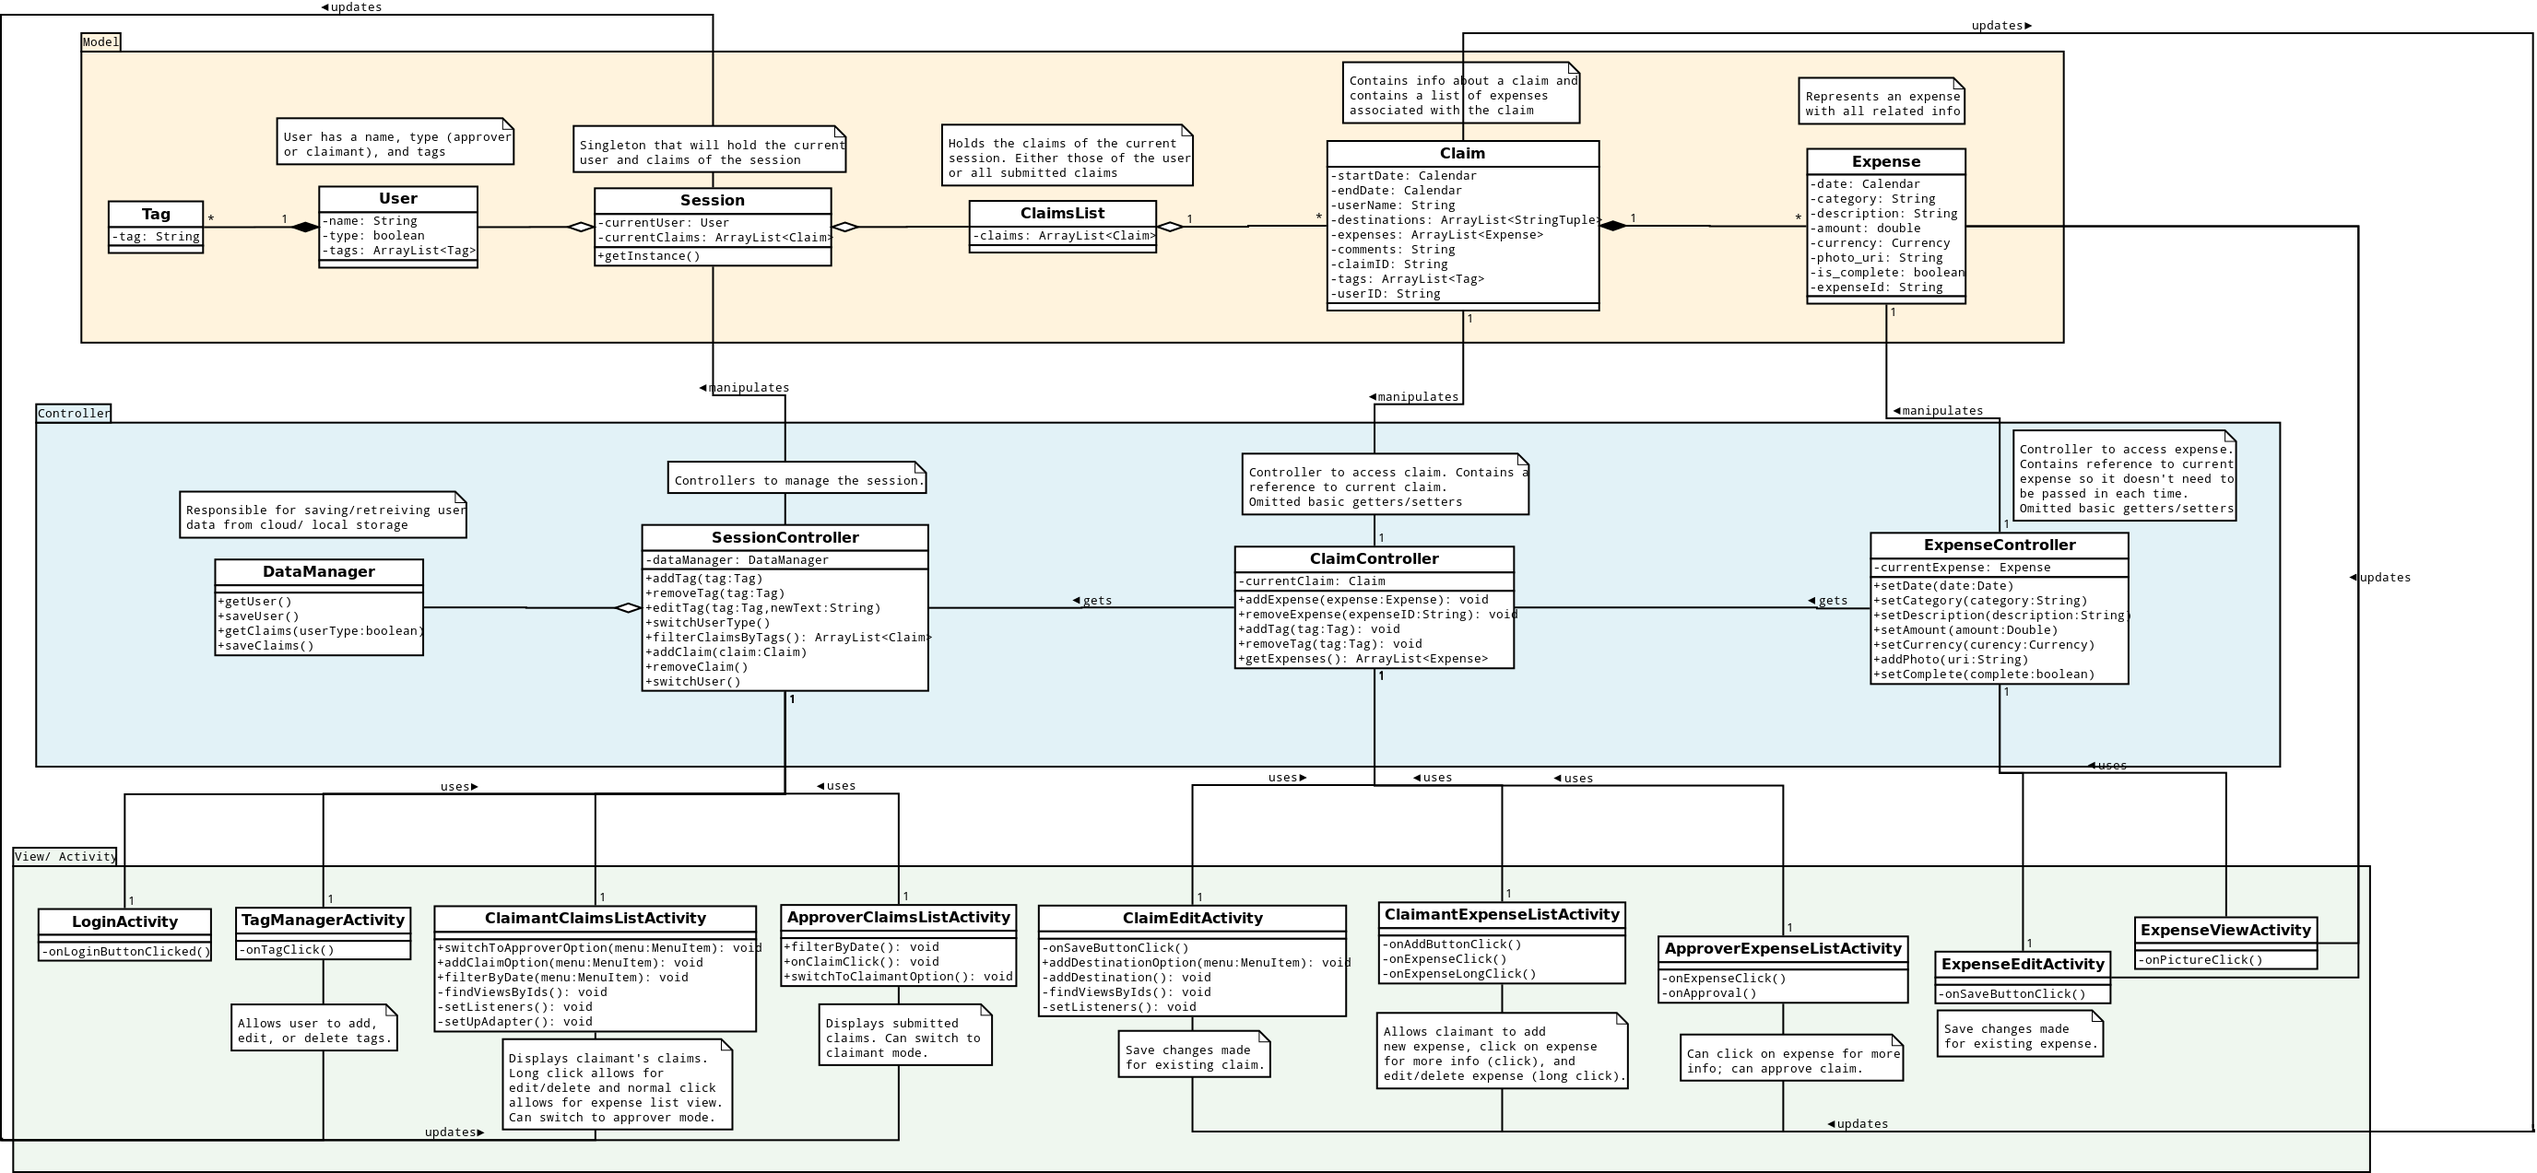
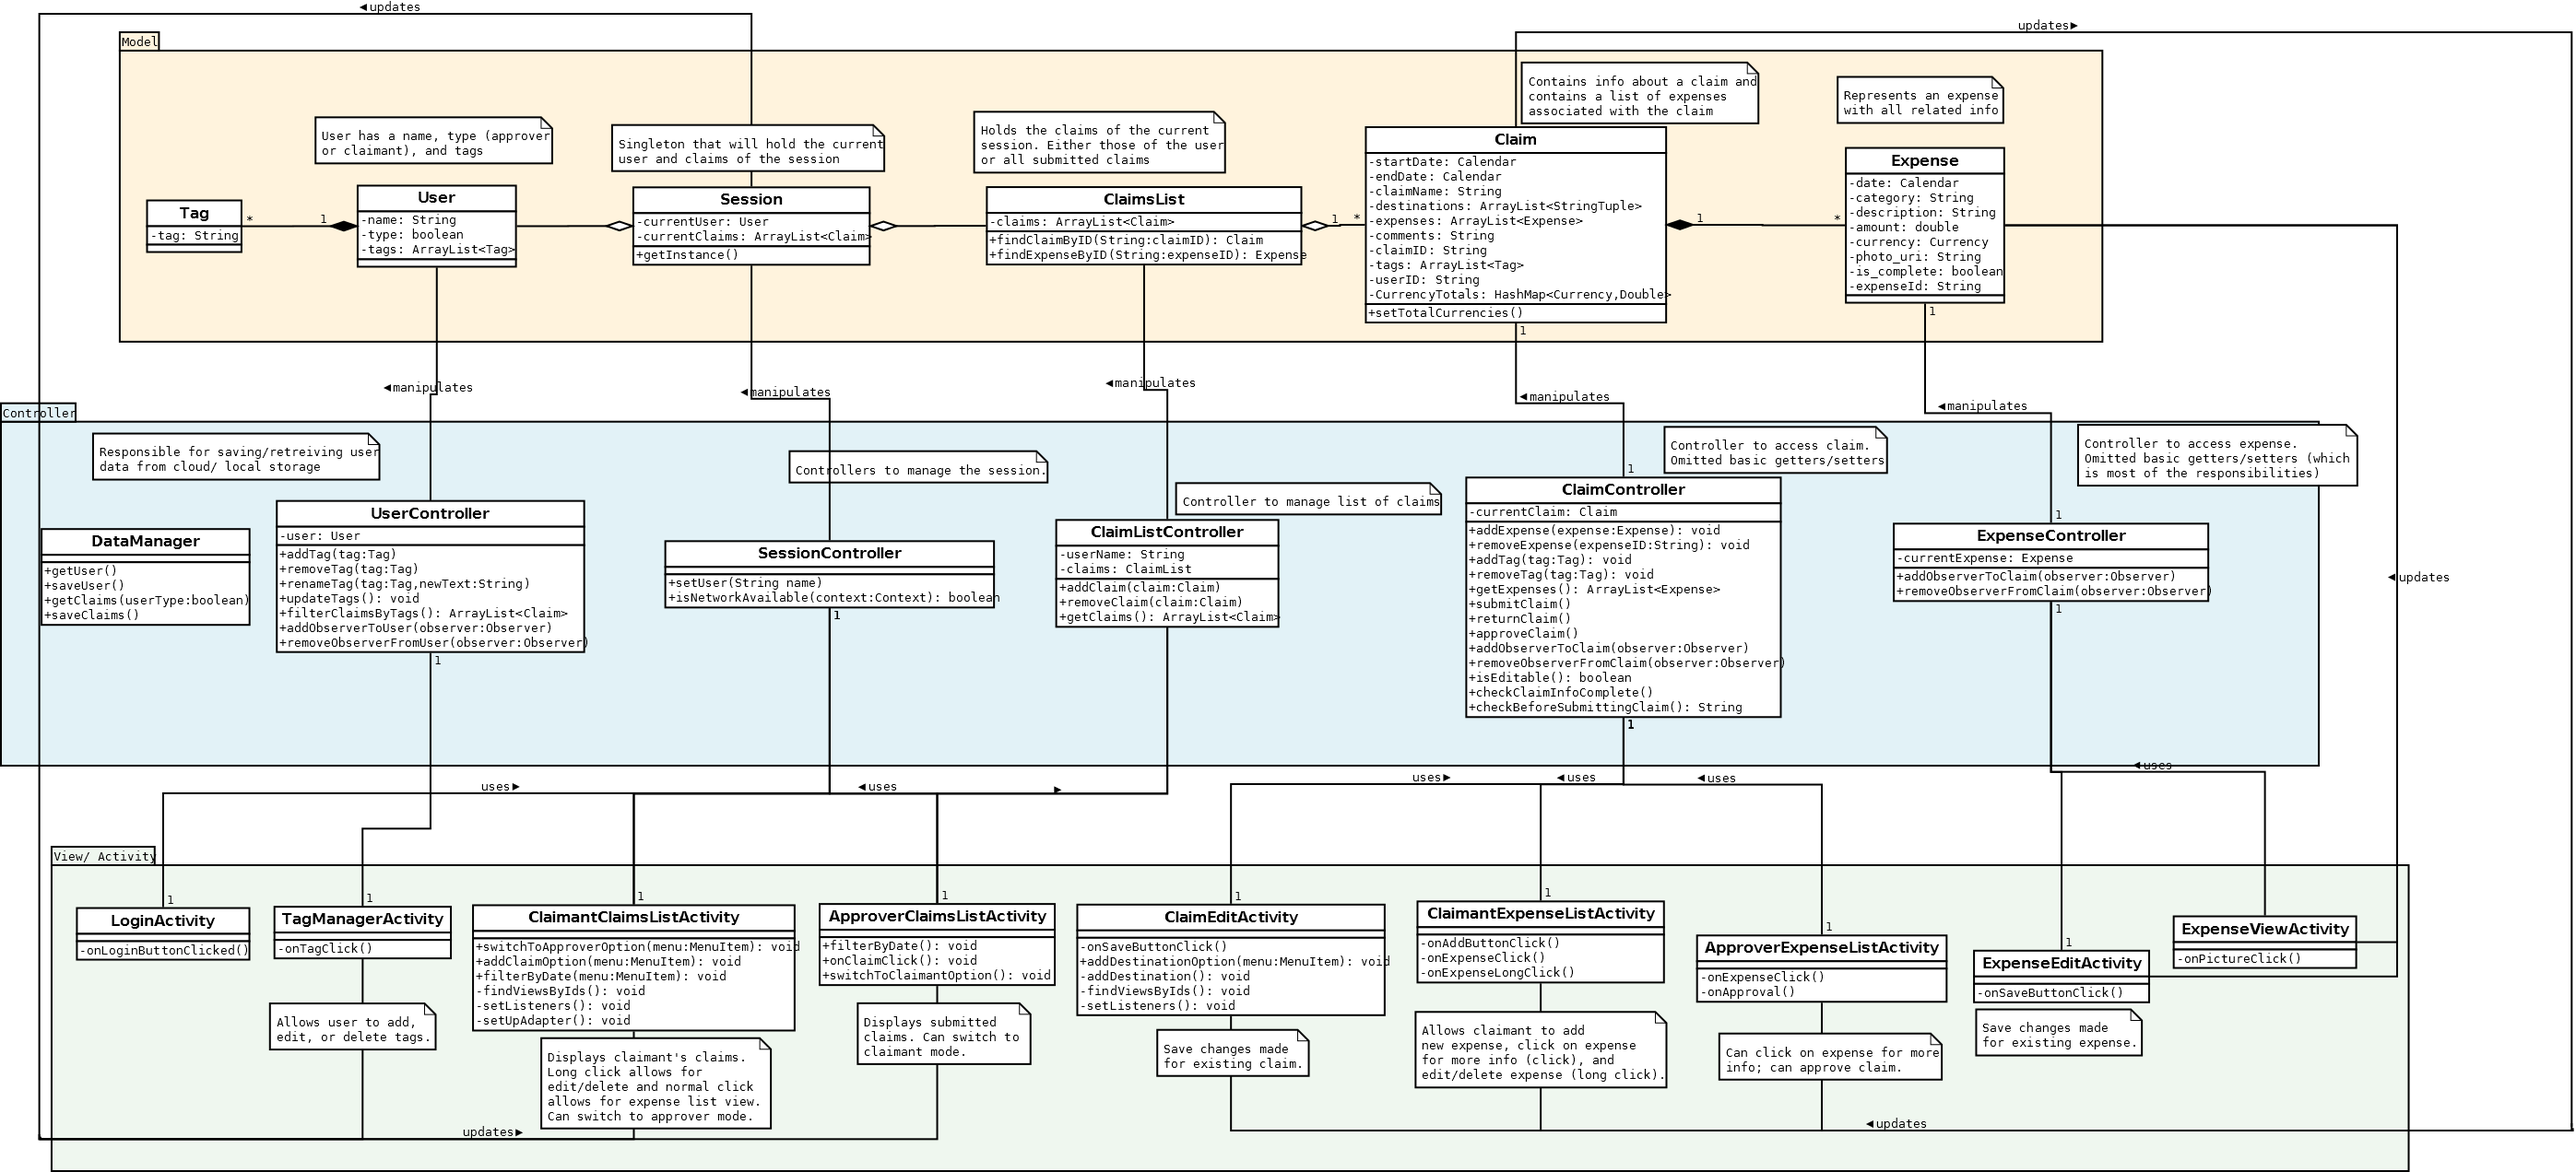
Updated UML, still needs some work

diff --git a/TeamToApp/src/com/CMPUT301W15T02/teamtoapp/Controllers/ClaimListController.java b/TeamToApp/src/com/CMPUT301W15T02/teamtoapp/Controllers/ClaimListController.java
@@ -27,15 +27,15 @@ import android.R.integer;
 public class ClaimListController {
 
 	private ClaimList claims;
-	private User user;
+	private String userName;
 	
 	public ClaimListController() {
 		claims = Session.getInstance().getCurrentClaims();
-		user = Session.getInstance().getCurrentUser();
+		userName = Session.getInstance().getCurrentUser().getName();
 	}
 	
 	public void addClaim(Claim claim) {
-		claim.setUser(user.getName());
+		claim.setUser(userName);
 		claims.addClaim(claim);
 	}
 	
